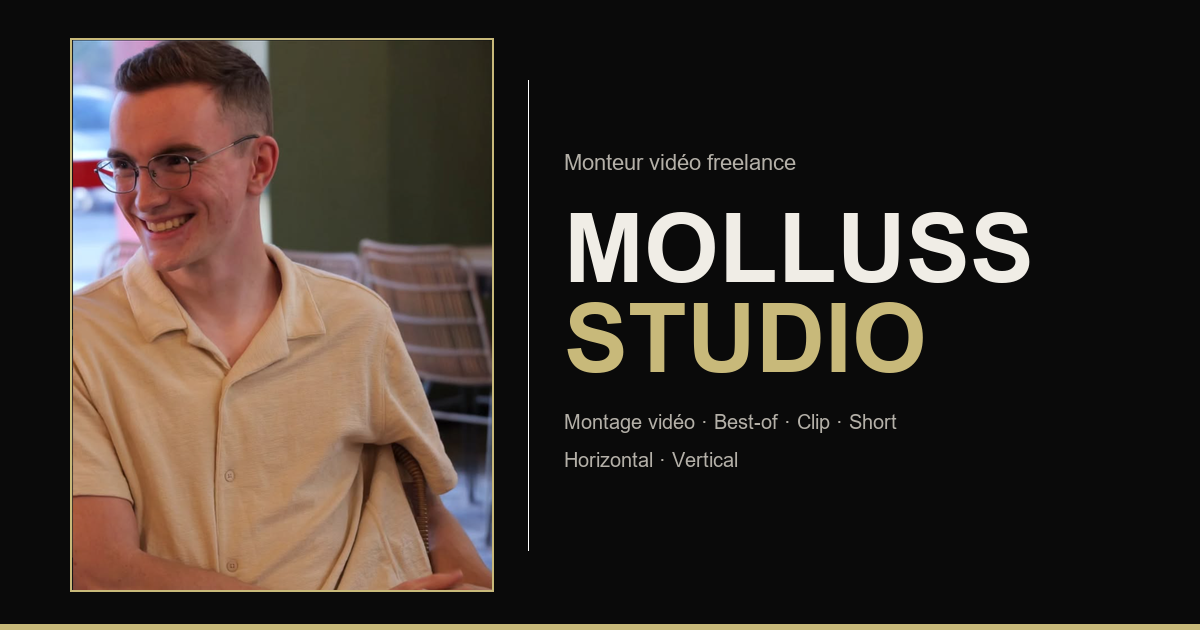
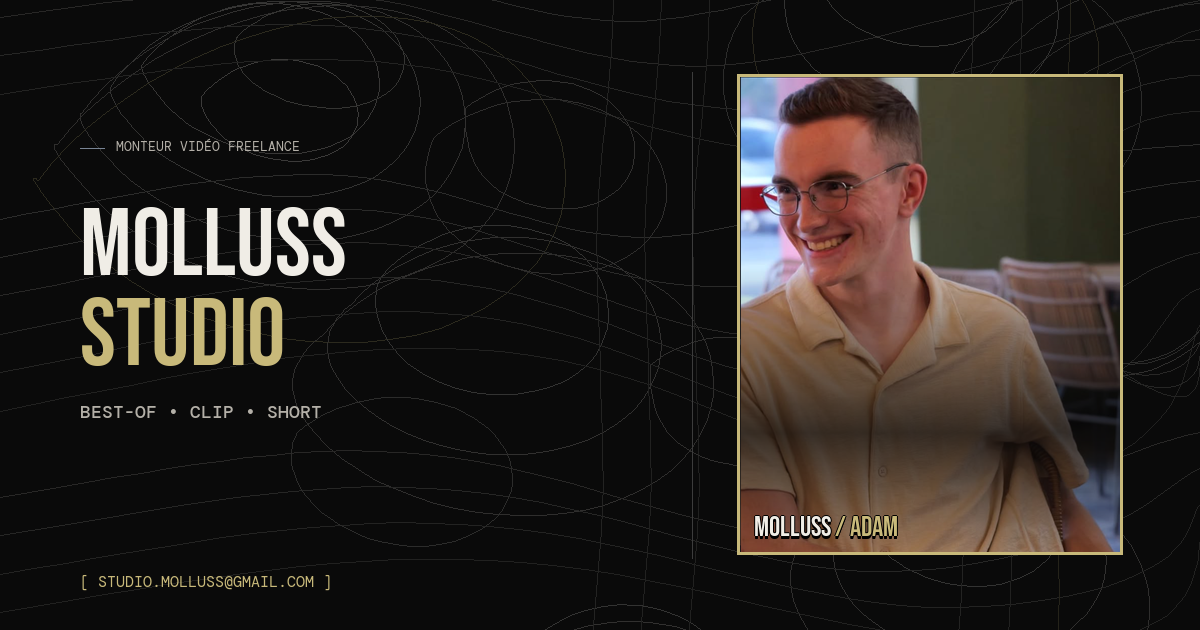
Carte de partage : fond topo, best-of clip short, mail.
Nouvelle og-image 1200×630 et meta tags Open Graph / Twitter.

diff --git a/scripts/generate-og-image.py b/scripts/generate-og-image.py
@@ -1,31 +1,160 @@
 """Generate 1200x630 Open Graph / Twitter Card image for Molluss Studio."""
 
+from __future__ import annotations
+
+import math
+import re
+import xml.etree.ElementTree as ET
 from pathlib import Path
 
+import requests
 from PIL import Image, ImageDraw, ImageFont
 
 ROOT = Path(__file__).resolve().parent.parent
 ASSETS = ROOT / "assets"
+SCRIPTS = ROOT / "scripts"
+FONT_CACHE = SCRIPTS / ".font-cache"
 OUT = ASSETS / "og-image.png"
 PROFILE = ASSETS / "profile.png"
+TOPO = ASSETS / "topo-pattern.svg"
 
 W, H = 1200, 630
 BG = (10, 10, 10)
-SURFACE = (20, 20, 20)
 WHITE = (240, 237, 230)
 ACCENT = (200, 185, 122)
 MUTED = (180, 176, 168)
+MUTED_LIGHT = (120, 132, 148)
+
+FONT_URLS = {
+    "BebasNeue-Regular.ttf": (
+        "https://github.com/google/fonts/raw/main/ofl/bebasneue/BebasNeue-Regular.ttf"
+    ),
+    "DMMono-Regular.ttf": (
+        "https://github.com/google/fonts/raw/main/ofl/dmmono/DMMono-Regular.ttf"
+    ),
+    "DMMono-Medium.ttf": (
+        "https://github.com/google/fonts/raw/main/ofl/dmmono/DMMono-Medium.ttf"
+    ),
+}
 
 
-def load_font(size: int, bold: bool = False) -> ImageFont.FreeTypeFont | ImageFont.ImageFont:
-    candidates = [
-        Path(r"C:\Windows\Fonts\arialbd.ttf") if bold else Path(r"C:\Windows\Fonts\arial.ttf"),
-        Path(r"C:\Windows\Fonts\segoeuib.ttf") if bold else Path(r"C:\Windows\Fonts\segoeui.ttf"),
+def ensure_fonts() -> None:
+    FONT_CACHE.mkdir(parents=True, exist_ok=True)
+    for name, url in FONT_URLS.items():
+        target = FONT_CACHE / name
+        if target.exists() and target.stat().st_size > 0:
+            continue
+        response = requests.get(url, timeout=30)
+        response.raise_for_status()
+        target.write_bytes(response.content)
+
+
+def load_font(name: str, size: int) -> ImageFont.FreeTypeFont:
+    ensure_fonts()
+    return ImageFont.truetype(str(FONT_CACHE / name), size)
+
+
+def parse_rgba(value: str) -> tuple[int, int, int, int]:
+    match = re.match(r"rgba\((\d+),(\d+),(\d+),([\d.]+)\)", value.strip())
+    if not match:
+        return (*WHITE, 40)
+    r, g, b, a = match.groups()
+    return int(r), int(g), int(b), int(round(float(a) * 255))
+
+
+def tokenize_path(d: str) -> list[str | float]:
+    return [
+        float(token) if token not in {"M", "C", "Z", "m", "c", "z"} else token.upper()
+        for token in re.findall(r"[MCZmcz]|[-+]?(?:\d*\.\d+|\d+)(?:e[-+]?\d+)?", d)
     ]
-    for path in candidates:
-        if path.exists():
-            return ImageFont.truetype(str(path), size)
-    return ImageFont.load_default()
+
+
+def cubic_points(p0, p1, p2, p3, steps: int = 18) -> list[tuple[float, float]]:
+    points: list[tuple[float, float]] = []
+    for i in range(steps + 1):
+        t = i / steps
+        mt = 1 - t
+        x = (
+            mt**3 * p0[0]
+            + 3 * mt**2 * t * p1[0]
+            + 3 * mt * t**2 * p2[0]
+            + t**3 * p3[0]
+        )
+        y = (
+            mt**3 * p0[1]
+            + 3 * mt**2 * t * p1[1]
+            + 3 * mt * t**2 * p2[1]
+            + t**3 * p3[1]
+        )
+        points.append((x, y))
+    return points
+
+
+def path_to_points(d: str) -> list[tuple[float, float]]:
+    tokens = tokenize_path(d)
+    points: list[tuple[float, float]] = []
+    idx = 0
+    current = (0.0, 0.0)
+    start = (0.0, 0.0)
+
+    while idx < len(tokens):
+        cmd = tokens[idx]
+        idx += 1
+
+        if cmd == "M":
+            current = (tokens[idx], tokens[idx + 1])
+            idx += 2
+            start = current
+            points.append(current)
+        elif cmd == "C":
+            p1 = (tokens[idx], tokens[idx + 1])
+            p2 = (tokens[idx + 2], tokens[idx + 3])
+            p3 = (tokens[idx + 4], tokens[idx + 5])
+            idx += 6
+            segment = cubic_points(current, p1, p2, p3)
+            points.extend(segment[1:])
+            current = p3
+        elif cmd == "Z":
+            if points and current != start:
+                points.append(start)
+            current = start
+
+    return points
+
+
+def draw_topo_background(canvas: Image.Image) -> None:
+    if not TOPO.exists():
+        return
+
+    root = ET.parse(TOPO).getroot()
+    ns = {"svg": "http://www.w3.org/2000/svg"}
+    paths = root.findall(".//svg:path", ns) or root.findall(".//path")
+
+    src_size = 1000.0
+    scale = max(W / src_size, H / src_size)
+    scaled = int(math.ceil(src_size * scale))
+    offset_x = (W - scaled) // 2
+    offset_y = (H - scaled) // 2
+
+    overlay = Image.new("RGBA", (W, H), (0, 0, 0, 0))
+    draw = ImageDraw.Draw(overlay)
+
+    for path in paths:
+        stroke = path.attrib.get("stroke", "rgba(240,237,230,0.15)")
+        stroke_width = float(path.attrib.get("stroke-width", "0.65"))
+        rgba = parse_rgba(stroke)
+        width = max(1, int(round(stroke_width * scale * 1.4)))
+        raw_points = path_to_points(path.attrib.get("d", ""))
+        if len(raw_points) < 2:
+            continue
+
+        mapped = [
+            (offset_x + x * scale, offset_y + y * scale)
+            for x, y in raw_points
+        ]
+        draw.line(mapped, fill=rgba, width=width, joint="curve")
+
+    canvas.paste(overlay, (0, 0), overlay)
 
 
 def cover_crop(img: Image.Image, tw: int, th: int) -> Image.Image:
@@ -46,37 +175,86 @@ def cover_crop(img: Image.Image, tw: int, th: int) -> Image.Image:
     return resized.crop((0, 0, tw, th))
 
 
+def draw_gradient_overlay(photo: Image.Image) -> None:
+    overlay = Image.new("RGBA", photo.size, (0, 0, 0, 0))
+    draw = ImageDraw.Draw(overlay)
+    width, height = photo.size
+    for y in range(height):
+        ratio = y / max(height - 1, 1)
+        if ratio < 0.4:
+            alpha = 0
+        elif ratio < 0.75:
+            alpha = int(191 * (ratio - 0.4) / 0.35)
+        else:
+            alpha = int(191 * (1 - (ratio - 0.75) / 0.25 * 0.8))
+        draw.line([(0, y), (width, y)], fill=(10, 10, 10, alpha))
+    photo.paste(overlay, (0, 0), overlay)
+
+
+def draw_portrait(canvas: Image.Image, x: int, y: int, width: int, height: int) -> None:
+    if not PROFILE.exists():
+        return
+
+    frame = 3
+    photo = Image.open(PROFILE).convert("RGB")
+    cropped = cover_crop(photo, width, height)
+    draw_gradient_overlay(cropped)
+
+    framed = Image.new("RGB", (width + frame * 2, height + frame * 2), ACCENT)
+    framed.paste(cropped, (frame, frame))
+    canvas.paste(framed, (x - frame, y - frame))
+
+    draw = ImageDraw.Draw(canvas)
+    pseudo_font = load_font("BebasNeue-Regular.ttf", 28)
+    pseudo_x = x + 14
+    pseudo_y = y + height - 42
+
+    for dx, dy in [(-1, 0), (1, 0), (0, -1), (0, 1), (0, 2), (0, 3)]:
+        draw.text(
+            (pseudo_x + dx, pseudo_y + dy),
+            "Molluss / Adam",
+            fill=(0, 0, 0),
+            font=pseudo_font,
+        )
+
+    molluss_width = draw.textlength("Molluss ", font=pseudo_font)
+    draw.text((pseudo_x, pseudo_y), "Molluss ", fill=WHITE, font=pseudo_font)
+    draw.text((pseudo_x + molluss_width, pseudo_y), "/ Adam", fill=ACCENT, font=pseudo_font)
+
+
+def draw_left_text(canvas: Image.Image) -> None:
+    draw = ImageDraw.Draw(canvas)
+    text_x = 80
+
+    role_font = load_font("DMMono-Regular.ttf", 13)
+    title_font = load_font("BebasNeue-Regular.ttf", 96)
+    tags_font = load_font("DMMono-Medium.ttf", 18)
+    email_font = load_font("DMMono-Regular.ttf", 15)
+
+    draw.line([(text_x, 148), (text_x + 24, 148)], fill=MUTED_LIGHT, width=1)
+    draw.text((text_x + 36, 138), "MONTEUR VIDÉO FREELANCE", fill=MUTED, font=role_font)
+
+    draw.text((text_x, 188), "MOLLUSS", fill=WHITE, font=title_font)
+    draw.text((text_x, 278), "STUDIO", fill=ACCENT, font=title_font)
+    draw.text((text_x, 400), "BEST-OF • CLIP • SHORT", fill=MUTED, font=tags_font)
+    draw.text((text_x, H - 58), "[ STUDIO.MOLLUSS@GMAIL.COM ]", fill=ACCENT, font=email_font)
+
+
 def main() -> None:
     canvas = Image.new("RGB", (W, H), BG)
+    draw_topo_background(canvas)
+
+    portrait_w = 380
+    portrait_h = int(portrait_w * 5 / 4)
+    portrait_x = W - portrait_w - 80
+    portrait_y = (H - portrait_h) // 2
+
+    divider_x = portrait_x - 48
     draw = ImageDraw.Draw(canvas)
+    draw.line([(divider_x, 72), (divider_x, H - 72)], fill=(60, 60, 60), width=1)
 
-    portrait_w = 420
-    portrait_h = H - 80
-    portrait_x = 72
-    portrait_y = 40
-
-    if PROFILE.exists():
-        photo = Image.open(PROFILE).convert("RGB")
-        cropped = cover_crop(photo, portrait_w, portrait_h)
-        frame = Image.new("RGB", (portrait_w + 4, portrait_h + 4), ACCENT)
-        frame.paste(cropped, (2, 2))
-        canvas.paste(frame, (portrait_x - 2, portrait_y - 2))
-
-    text_x = portrait_x + portrait_w + 72
-    draw.line([(text_x - 36, 80), (text_x - 36, H - 80)], fill=(255, 255, 255, 20), width=1)
-
-    role_font = load_font(22)
-    draw.text((text_x, 150), "Monteur vidéo freelance", fill=MUTED, font=role_font)
-
-    title_font = load_font(96, bold=True)
-    draw.text((text_x, 195), "MOLLUSS", fill=WHITE, font=title_font)
-    draw.text((text_x, 285), "STUDIO", fill=ACCENT, font=title_font)
-
-    tag_font = load_font(20)
-    draw.text((text_x, 410), "Montage vidéo · Best-of · Clip · Short", fill=MUTED, font=tag_font)
-    draw.text((text_x, 448), "Horizontal · Vertical", fill=MUTED, font=tag_font)
-
-    draw.rectangle([(0, H - 6), (W, H)], fill=ACCENT)
+    draw_left_text(canvas)
+    draw_portrait(canvas, portrait_x, portrait_y, portrait_w, portrait_h)
 
     canvas.save(OUT, format="PNG", optimize=True)
     print(f"Saved {OUT} ({W}x{H})")
